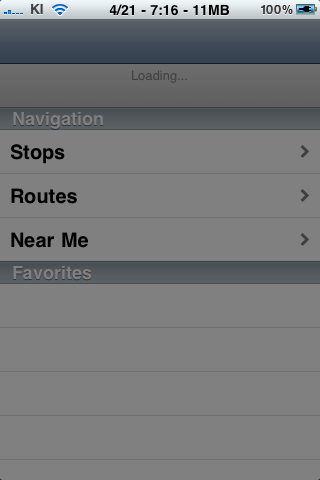
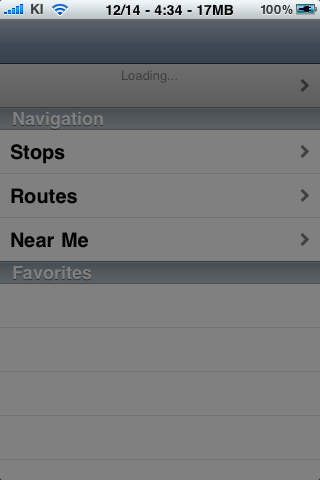
updated Default.png

diff --git a/Classes/OBTopViewController.m b/Classes/OBTopViewController.m
@@ -98,6 +98,11 @@
 	{
 		firstRun = YES;
 		
+		// NOTE uncomment this to keep OSU Bus from going any farther
+		// useful for getting a new Default.png
+		//bulletinsLoaded = YES;
+		//return;
+		
 		// handle hud-hiding for first launch
 		[hud hide: YES];
 		
@@ -158,11 +163,17 @@
 
 - (void) startBulletinDisplay
 {
+	// no matter what, clear that network indicator
+	[[UIApplication sharedApplication] setNetworkActivityIndicatorVisible: NO];
+	
+	// failsafe check...
+	if (bulletinsLoaded)
+		return;
+	
 	bulletinsLoaded = YES;
 	[bulletinCell setAccessoryType: UITableViewCellAccessoryDisclosureIndicator];
 	[NSTimer scheduledTimerWithTimeInterval: 3.0 target: self selector: @selector(updateBulletinCell:) userInfo: nil repeats: YES];
 	[self updateBulletinCell: nil];
-	[[UIApplication sharedApplication] setNetworkActivityIndicatorVisible: NO];
 	
 	// check to see if DB needs updating...
 	if ([bulletinsViewController updateURL])
